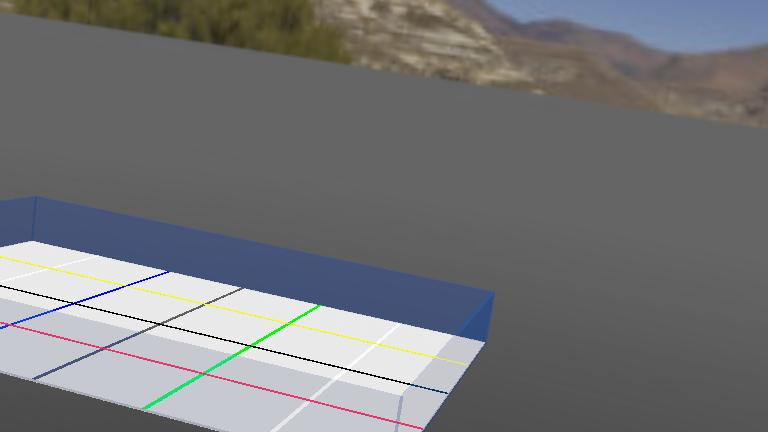
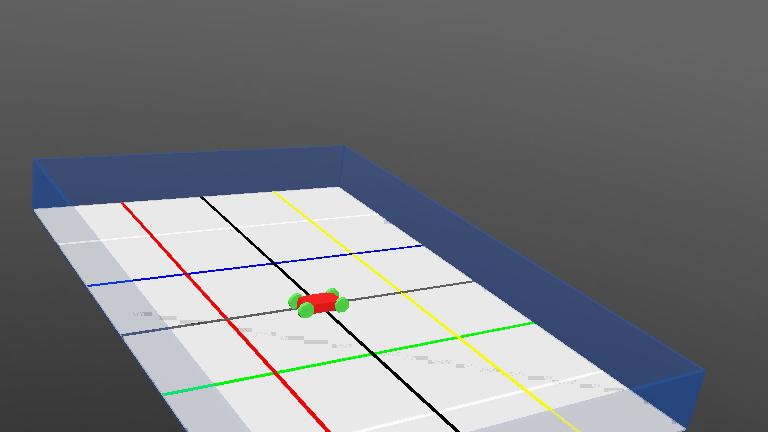
Dossier robot et world - documentation

diff --git a/docs/source/project_management/index.rst b/docs/source/project_management/index.rst
@@ -1,5 +1,6 @@
+##################
 Project Management
-==================
+##################
 
 This section contains the main project management documents used during the
 development of the TER Robotique project.
@@ -7,8 +8,9 @@ development of the TER Robotique project.
 These documents describe the project organization, planning, specifications,
 and development process followed throughout the project.
 
+*******************
 Available documents
--------------------
+*******************
 
 The following resources are available:
 
@@ -16,8 +18,9 @@ The following resources are available:
 - `Plan de développement <../_static/project_management/Plan_de_dev.pdf>`_
 - `Diagramme de Gantt <../_static/project_management/DiagrammeDeGantt.xlsx>`_
 
+*********************
 Document descriptions
----------------------
+*********************
 
 **Cahier des charges**
 
@@ -34,8 +37,9 @@ and implementation process of the project.
 This planning document presents the project schedule, milestones,
 task distribution, and development timeline.
 
+********************
 Project organization
---------------------
+********************
 
 The project is organized into several phases:
 

diff --git a/docs/source/index.rst b/docs/source/index.rst
@@ -29,6 +29,8 @@ Contents
 
    installation
    project_management/index
+   robot/index
+   world/index
 
 Indices and tables
 ------------------

diff --git a/docs/source/robot/index.rst b/docs/source/robot/index.rst
@@ -1,0 +1,11 @@
+#####
+Robot
+#####
+
+*******
+Sensors
+*******
+
+*********
+Functions
+*********

diff --git a/docs/source/world/index.rst b/docs/source/world/index.rst
@@ -1,0 +1,3 @@
+#####
+World
+#####
